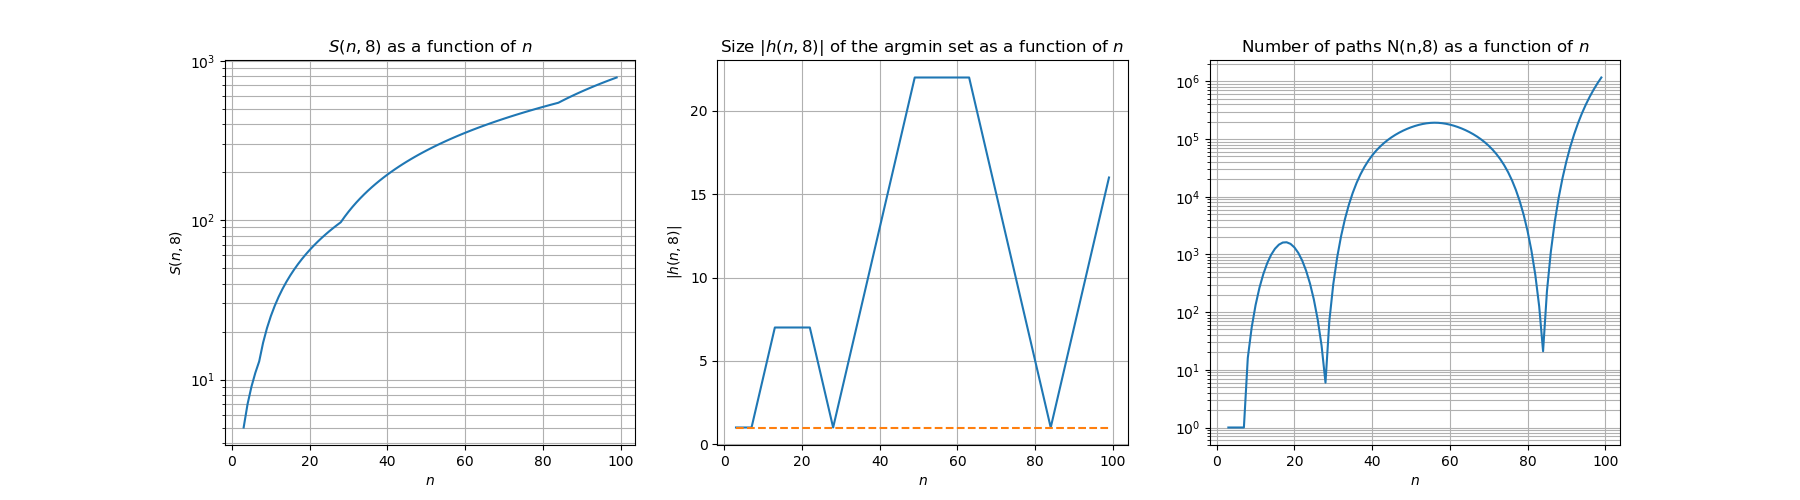
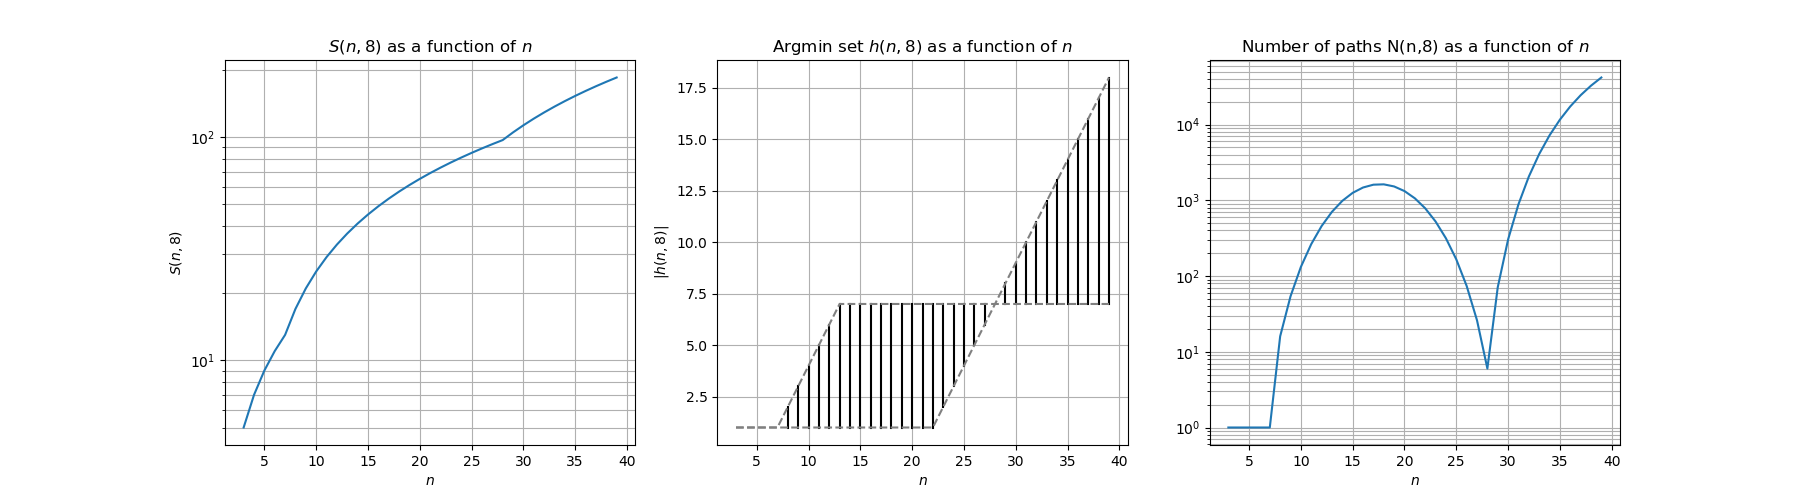
argmin set

diff --git a/README.html b/README.html
@@ -25,7 +25,7 @@ with <img src="svgs/8296ec3ea4a7d9ff0544ab37d62c46a3.svg?invert_in_darkmode" ali
 <p>For any <img src="svgs/4a7904636f1a65178b5330484196fa32.svg?invert_in_darkmode" align=middle width=38.22885pt height=24.6576pt/>, an optimal choice is any element of the argmin set <img src="svgs/5f7ac9a9c839c8f9190dc5ee3e558ddb.svg?invert_in_darkmode" align=middle width=47.700015pt height=24.6576pt/>.
 The number of paths <img src="svgs/8e73e453a97fff6cbf5eeabbd78d49e4.svg?invert_in_darkmode" align=middle width=53.228835pt height=24.6576pt/> that can generated by the algorithm satisfies the following recurrence:</p>
 
-<p><p align="center"><img src="svgs/e5035a09fa8aea9593397fef2e940e4b.svg?invert_in_darkmode" align=middle width=422.8785pt height=40.54809pt/></p> <br>
+<p><p align="center"><img src="svgs/b13ac47b2bc5f5af2430c5e47df7c1f7.svg?invert_in_darkmode" align=middle width=420.20715pt height=40.54809pt/></p> <br>
 with <img src="svgs/609eb0a296db18064b5d4f5952c80693.svg?invert_in_darkmode" align=middle width=83.36559pt height=24.6576pt/> if <img src="svgs/e0f522db0721e5d05e241d096bf5e422.svg?invert_in_darkmode" align=middle width=40.05507pt height=17.72397pt/> or <img src="svgs/39cd1e5f222b0b87f4a26f8b97296bd2.svg?invert_in_darkmode" align=middle width=38.407545pt height=21.18732pt/>.</p>
 
 <p>Below are some empirical curves of the above quantities.</p>

diff --git a/stewart.py b/stewart.py
@@ -150,7 +150,7 @@ def plot_etat(fig, n, p, etat):
 
 # Génération des courbes
 
-nrange = range(3,100)
+nrange = range(3,40)
 rln = range(len(nrange))
 for p in range(3,10):
     print(p)
@@ -168,13 +168,16 @@ for p in range(3,10):
 
     # taille de l'ensemble argmin
     ax = fig.add_subplot(132)
-    plt.title("Size $|h(n,%d)|$ of the argmin set as a function of $n$"%p)
+    plt.title("Argmin set $h(n,%d)$ as a function of $n$"%p)
     plt.ylabel("$|h(n,%d)|$"%p)
     plt.xlabel("$n$")
-    plt.plot( nrange, [ len(S_optcut(n,p)[1]) for n in nrange ] )
-    if p>3:
-        plt.plot( nrange, [1 for x in nrange], "--", label='1')
-        #plt.plot( nrange, [pow(x,(p-4)/(p-3)) for x in nrange], "--", label='xx')
+    for n in nrange:
+        plt.plot( [n,n],  [ S_optcut(n,p)[1][0], S_optcut(n,p)[1][-1] ], color='black')
+    plt.plot( nrange, [ S_optcut(n,p)[1][0]  for n in nrange ], '--', color='grey' )
+    plt.plot( nrange, [ S_optcut(n,p)[1][-1]  for n in nrange ], '--', color='grey' )
+    # if p>3:
+    #    plt.plot( nrange, [1 for x in nrange], "--", label='1')
+    #plt.plot( nrange, [pow(x,(p-4)/(p-3)) for x in nrange], "--", label='xx')
     plt.grid(which='both')
     
     # nb de chemins

diff --git a/README.md b/README.md
@@ -23,7 +23,7 @@ with <img src="svgs/8296ec3ea4a7d9ff0544ab37d62c46a3.svg?invert_in_darkmode" ali
 For any <img src="svgs/4a7904636f1a65178b5330484196fa32.svg?invert_in_darkmode" align=middle width=38.22885pt height=24.6576pt/>, an optimal choice is any element of the argmin set <img src="svgs/5f7ac9a9c839c8f9190dc5ee3e558ddb.svg?invert_in_darkmode" align=middle width=47.700015pt height=24.6576pt/>.
 The number of paths <img src="svgs/8e73e453a97fff6cbf5eeabbd78d49e4.svg?invert_in_darkmode" align=middle width=53.228835pt height=24.6576pt/> that can generated by the algorithm satisfies the following recurrence:
 
-<p align="center"><img src="svgs/e5035a09fa8aea9593397fef2e940e4b.svg?invert_in_darkmode" align=middle width=422.8785pt height=40.54809pt/></p> <br>
+<p align="center"><img src="svgs/b13ac47b2bc5f5af2430c5e47df7c1f7.svg?invert_in_darkmode" align=middle width=420.20715pt height=40.54809pt/></p> <br>
 with <img src="svgs/609eb0a296db18064b5d4f5952c80693.svg?invert_in_darkmode" align=middle width=83.36559pt height=24.6576pt/> if <img src="svgs/e0f522db0721e5d05e241d096bf5e422.svg?invert_in_darkmode" align=middle width=40.05507pt height=17.72397pt/> or <img src="svgs/39cd1e5f222b0b87f4a26f8b97296bd2.svg?invert_in_darkmode" align=middle width=38.407545pt height=21.18732pt/>.
 
 Below are some empirical curves of the above quantities.
